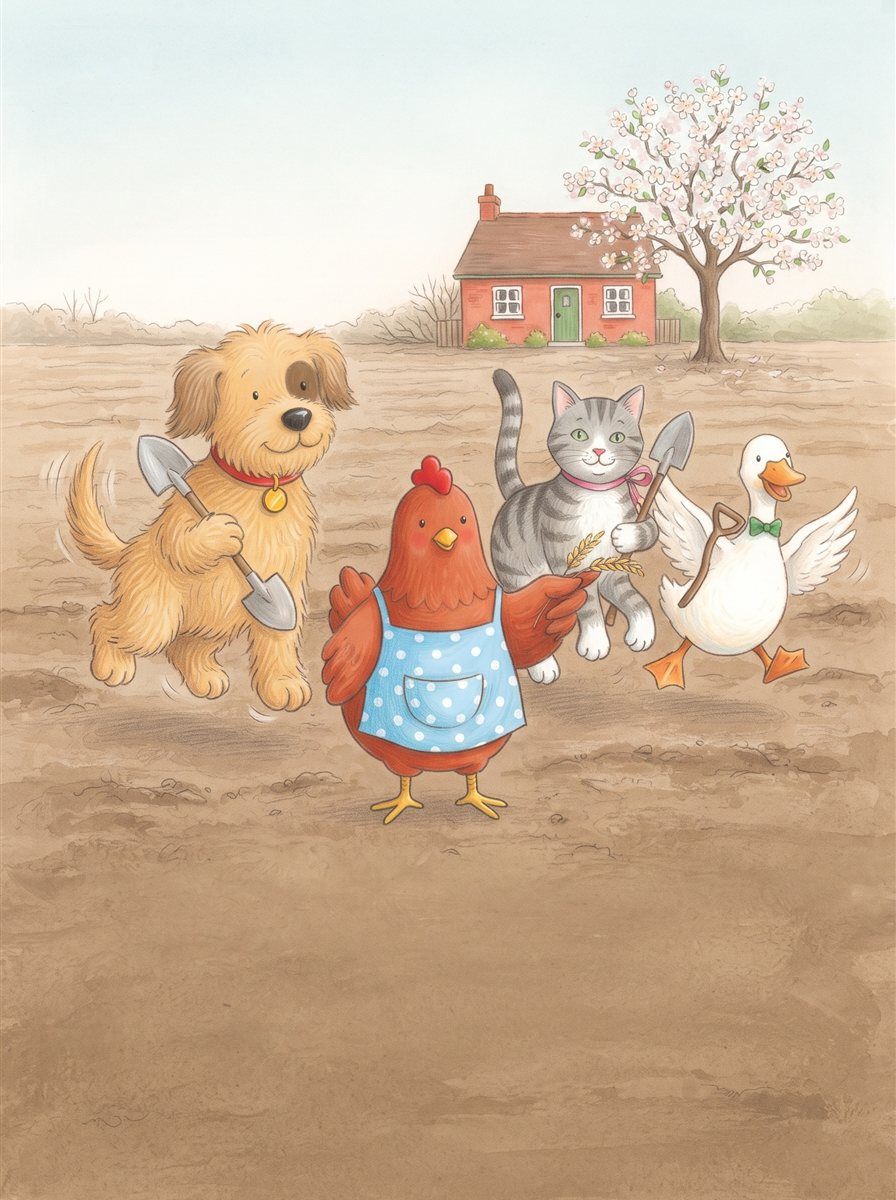
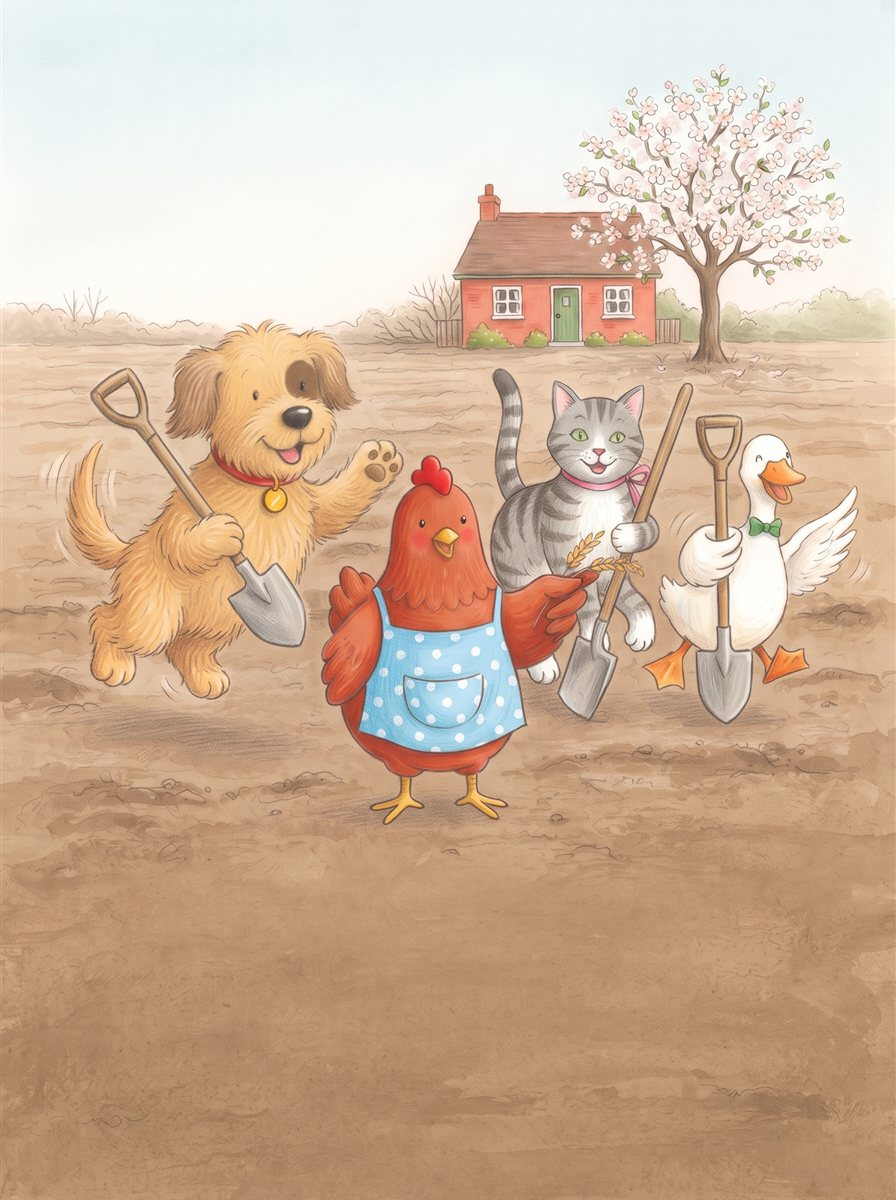
feat(dino): The Little Red Hen high-res pictures
Slice 350 part D: the high-res print pack. Pages 1-13 and 15 recovered at
full size from the earlier Gemini chats; the cover redrawn on 3.1 Pro as a
full-size copy of the accepted cover; page 14 fixed (the Duck held a handle
with no blade; now every friend holds a whole spade) and its app copy
updated. Back cover re-saved under the store size limit. Reviewer: PASS.

diff --git a/content/dino/little-red-hen/art.md b/content/dino/little-red-hen/art.md
@@ -189,3 +189,15 @@ one duck". Pages 12-14 fell in the 70-77% band slightly (blanket, Hen's feet); a
 | 13 | 1 | 1792x2400 | |
 | 14 | 3 | 1792x2400 | 1: four spades, Hen cut off by a hard edge; 2: two-storey brick house, friends posed not eager (full review); 3 passed, spring blossom only |
 | 15 | 1 | 1792x2400 | |
+
+### High-res pack (Slice 350, 2026-11-17)
+
+Full-size 1792x2400 originals, untouched Gemini files, in `high-res/` as flat JPEG 85 copies made by `prepare-story-pictures.ps1 -HighRes` (every file under 1.5 MB, largest 1,028,909 bytes). `back-cover.jpg` was 2,168,073 bytes (over the store limit) and now goes through `-HighRes` too (351,279 bytes).
+
+- Recovered from the user's Gemini chats (scratch file, original size in bytes): 1 c32-1 (3288960); 2 c31-1 (3025745); 3 c29-1 (3073333); 4 c21-1 (3392396); 5 c02-1 (3587981); 6 c14-1 (3074369); 7 c13-1 (2693969); 8 c11-1 (3183852); 9 c10-1 (3209597); 10 c07-1 (3013854); 11 c06-1 (3168824); 12 c22-1 (3539165); 13 c05-1 (3403043); 15 c19-1 (3111320). Chat ids are in the recover run's `chats.txt` (scratch folder).
+- Redrawn in new chats: cover, chat 3346bdc8f9c6ca00, 3311057 bytes (a full-size copy of the accepted cover; no recovered picture matched it). Page 14, chat 8475796192bcc780, 3034295 bytes (try a, chat 19d6ec8ff3a2c943, rejected: Cat's spade upside down, Duck's not clearly held): the fix for the user's flag "the tools are distorted", where the Duck held a bare handle with no blade; now Dog, Cat and Duck each hold a whole spade. The recovered page 14 (c01-1) was not used.
+- App copies (item E): only `pictures/14.jpg` replaced, prepared from the high-res original; every other app picture and the cover are unchanged. Store book: no stamp.
+
+For the user: the cover's Hen has her feet below the 73% line, as in the accepted cover. Recovered pages' line70 notes: page 12 (picnic blanket edge) is at the line, and page 15 (shovels) is on the line; all other pages pass.
+
+Full review 2026-11-17 (dino-story-reviewer): **PASS** (page 14 spades checked on full-size crops). Notes for the user (accepted pictures, kept): the back-cover loaf is long while the book's loaf is round, and the friends sit in the bottom strip; the farmhouse and the kitchen window change from page to page (none is single-pane); page 14's spades are long-handled while page 15's are small.
